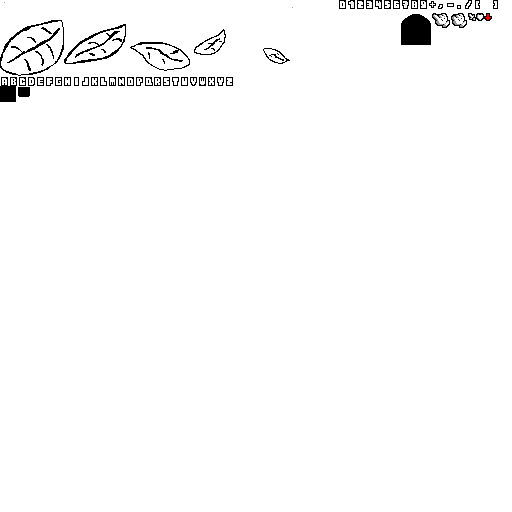
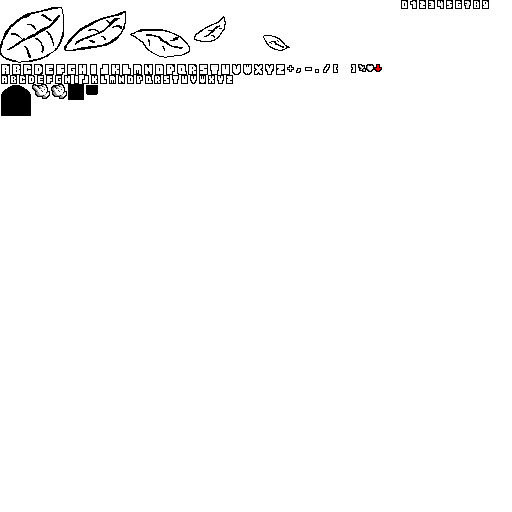
[Change] Large text.

Changed region(s): [[0.0, 0.0, 0.6562, 0.25], [0.6562, 0.0, 0.9688, 0.0938], [0.6875, 0.125, 0.75, 0.1562]]

diff --git a/GraphicsEngine/Game/Include/Interpreters/TextInterpreter.h b/GraphicsEngine/Game/Include/Interpreters/TextInterpreter.h
@@ -18,7 +18,7 @@ namespace game
 		jv::ge::AtlasTexture numberAtlasTexture;
 		jv::ge::AtlasTexture symbolAtlasTexture;
 		uint32_t symbolSize = 9;
-		uint32_t largeSymbolSize = 13;
+		uint32_t largeSymbolSize = 11;
 		int32_t spacing = -2;
 		uint32_t bounceHeight = 3;
 		float fadeInSpeed = 40;
